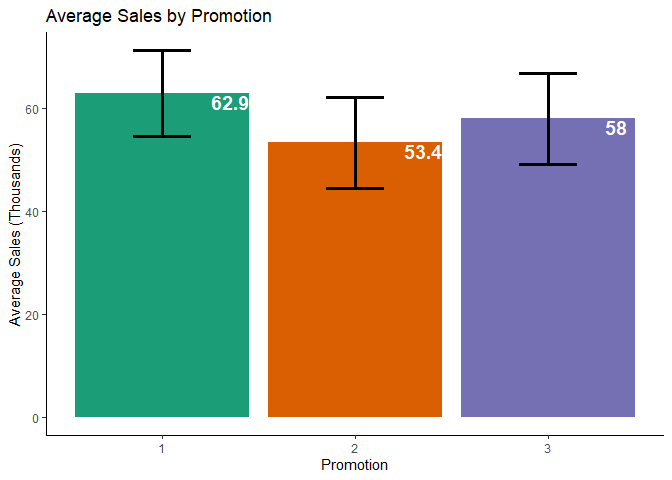
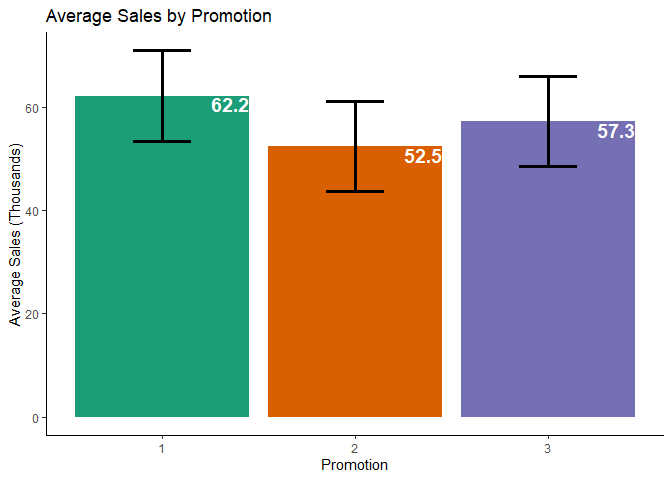
Improvements in readability and conciseness

diff --git a/ab_testing_example.md b/ab_testing_example.md
@@ -25,14 +25,22 @@ the best.
 - **MarketID**: unique identifier for market
 - **MarketSize**: size of market area by sales
 - **LocationID**: unique identifier for store location
-- **AgeOfStore**: age of store in years Promotion: one of three
-  promotions that were tested
+- **AgeOfStore**: age of store in years
+- **Promotion**: one of three promotions that were tested
 - **week**: one of four weeks when the promotions were run
 - **SalesInThousands**: sales amount for a specific LocationID,
   Promotion, and week
 
 Data was sourced from
 [Kaggle](https://www.kaggle.com/datasets/chebotinaa/fast-food-promotion-campaign-ab-test)
+
+### Outcome
+
+Employing a linear mixed-effect model, conditioned on Market ID and
+Market Size, the findings indicate that Promotion \#1 emerges as the
+most effective campaign for advancing. Projections suggest that this
+campaign is poised to yield average sales outcomes ranging from 6% to
+10% superior to the next most favorable alternative.
 
 ------------------------------------------------------------------------
 
@@ -52,15 +60,13 @@ head(d)
     ## 5        1     Medium          2          5         2    1            27.81
     ## 6        1     Medium          2          5         2    2            34.67
 
-Upon inspection, I notice that there are a few columns that need
-redefining in terms of their data type. MarketID, LocationID, and
-Promotion should all be factors rather than integers.
-
 ``` r
+#Redefinee numerics as factors
 d$MarketID = as.factor(d$MarketID)
 d$LocationID = as.factor(d$LocationID)
 d$Promotion = as.factor(d$Promotion)
 
+#Column Summaries
 print(summary(d))
 ```
 
@@ -82,25 +88,7 @@ print(summary(d))
     ## 
 
 ``` r
-print(range(table(d$MarketID)))
-```
-
-    ## [1] 24 88
-
-It appears that there are some imbalances in the data set.
-
-- For MarketID, there are a variety of different counts that range from
-  24-88. The number of observations that we have per market is going to
-  influence the degree of confidence in the conclusions that we can draw
-  within that market.
-- In terms of market sizes, it appears that medium markets are by far
-  the most common. Again, we are going to have less confidence in the
-  conclusions that we draw about large and especially small markets
-  compared to the ones we draw about medium markets.
-- Finally, it appears that promotion 1 was shown slightly less than
-  promotions 2 and 3.
-
-``` r
+#Missing value check
 table(is.na(d))
 ```
 
@@ -108,28 +96,23 @@ table(is.na(d))
     ## FALSE 
     ##  3836
 
-There are no missing values.
+Upon inspection, adjustments were made to redefine the data types of
+MarketID, LocationID, and Promotion as factors.
 
 ------------------------------------------------------------------------
 
 ## Searching for Confounds
 
-Before we go about building a model for our variable of interest
-(Promotion), we need to do some checks to ensure that there are no
-*confounds* that were introduced by the experimental design.
+The following sections explore the variables in the data set to assess
+whether or not they are confounds that will need to be accounted for in
+the final model.
 
 A *confound* is any variable, whether it is in the data set or not, that
-impacts both the treatment and the outcome. This commonly arises from
-poor experimental design, such as imbalances in the characteristics of
-the control and treatment groups.
+impacts the treatment and the outcome. This commonly arises from poor
+experimental design, such as imbalances in the characteristics of the
+control and treatment groups.
 
 ### Distribution of Promotions Across Markets
-
-First we will look at how the different treatments (Promotions) were
-distributed across the markets, and if there is significant variability
-in the outcome (SalesInThousands) that can be attributed to the
-different markets. If both of these criteria are satisfied, then
-*MarketID* is a confound.
 
 ``` r
 #Proportion table for percentage of promotions within each market
@@ -197,11 +180,10 @@ impact on sales (as indicated by the ANOVA).
 
 ### Market Size
 
-Next, we will investigate *MarketSize*. It is worth pointing out here
-that each *MarketID*, which we already established is a confound, only
-has a single market size value associated with it. If we can show that
-market size has a significant impact on sales, that would explain at
-least some of why MarketID has an impact on sales.
+NOTE: Each *MarketID*, which was already determined a confound, only has
+a single market size value associated with it. If market size has a
+significant impact on sales, it would explain some of why MarketID has
+an impact on sales.
 
 ``` r
 d %>%
@@ -225,14 +207,6 @@ summary(aov(SalesInThousands~MarketSize, d))
     ## Residuals   545  77290     142                   
     ## ---
     ## Signif. codes:  0 '***' 0.001 '**' 0.01 '*' 0.05 '.' 0.1 ' ' 1
-
-The data is suggesting that the market size has an appreciable impact on
-sales. The 1-way ANOVA suggests statistical significance, and the
-summary table shows that large markets see, on average, about 60% more
-in sales when compared to medium markets.
-
-Next, we need to see if the promotion campaigns are unequally
-distributed across the different market sizes.
 
 ``` r
 #Proportion table for percentage of market sizes per promotion type
@@ -261,20 +235,13 @@ chisq.test(table(d$Promotion, d$MarketSize))
     ## data:  table(d$Promotion, d$MarketSize)
     ## X-squared = 4.7539, df = 4, p-value = 0.3135
 
-Since the chi-square statistic is not significant, we fail to reject the
-null hypothesis and conclude that the promotions are equally distributed
-across the different market sizes.
-
-Up to now, we have established that *MarketID* impacts both *MarketSize*
-and average sales, and that the *Promotions* are not equally distributed
-across the different markets. Keeping these in mind, we will move onto
-investigating some of the other measured variables.
+The 1-way ANOVA yielded statistical significance, and the summary table
+shows that large markets see, on average, about 60% more in sales
+compared to medium markets. However, it cannot be concluded that the
+promotions are differently distributed across the different market
+sizes. Therefore, *MarketSize* is not a confound.
 
 ### Store Age
-
-Next, in our further exploration of possible confounds, we can check to
-see if the age of the store has an impact on sales. A simple scatter
-plot and correlation metric will suffice here.
 
 ``` r
 library(ggplot2)
@@ -313,34 +280,15 @@ sales.
 
 ### Time
 
-Getting into our first look at the efficacy of the promotion campaigns,
-let’s visualize how the store sales change over the course of the 4
-weeks that were measured. One would assume that a successful promotion
-campaign would show increased sales as time goes on. However, there are
-plenty of market forces outside of our control that could impact these
-numbers at large.
-
 ``` r
+#Visualization of sales over the Promotional Trial.
 ggplot(d, aes(x = week, y = SalesInThousands, group = LocationID, color = MarketSize))+
   geom_line(alpha = 0.4, size = 1)+
   theme_classic()+
-  ggtitle("Sales During promotion Campaigns (First 4 Weeks)")
+  ggtitle("Sales During Promotion Campaigns (First 4 Weeks)")
 ```
 
 ![](ab_testing_example_files/figure-gfm/unnamed-chunk-9-1.png)<!-- -->
-
-There is a lot going on here, and it is tough to parse out any trend
-over time, likely meaning that any effect is going to be relatively
-small and potentially insignificant. I decided to color the lines by
-market size, as they further illustrate that:
-
-- Large markets tend to have much higher sales numbers than small and
-  medium markets.
-- Medium markets far outnumber both small and large markets in this data
-  set.
-
-I will employ a slightly different approach to investigate whether sales
-are increasing over time.
 
 ``` r
 library(reshape2)
@@ -360,103 +308,68 @@ ggplot(dcast, aes(diff))+
     x = median(dcast$diff)-0.5, y = 0.065, 
     label = paste("median = ", median(dcast$diff)), 
     angle = 90, fontface = "bold")+
-  xlab("Difference in Individual Location Earnings (Week 4 - Week 1)")
+  xlab("Difference in Individual Location Sales (Week 4 - Week 1)")
 ```
 
 ![](ab_testing_example_files/figure-gfm/unnamed-chunk-10-1.png)<!-- -->
 
-There doesn’t seem to be much of a noteworthy trend here, either. If
-anything, this distribution is slightly skewed to suggest fewer sales in
-Week 4. As one final test, we can write a regression model to check this
-conclusion.
-
-For this model, I will be predicting sales as a function of week. Some
-of the features of this model include:
-
-- Random intercepts for each LocationID, since the locations represent a
-  small sample of a larger population.
-- Additionally, locations nested within markets, which are also random,
-  so I will specify that in the model as well.
-- Random slopes for each promotion, in case the effect over time varies
-  by promotion.
-
 ``` r
 library(lme4)
-summary(lmer(SalesInThousands~week+(Promotion|MarketID/LocationID), d))
+summary(lmer(SalesInThousands~week+(1|MarketID/LocationID), d))
 ```
 
     ## Linear mixed model fit by REML ['lmerMod']
-    ## Formula: SalesInThousands ~ week + (Promotion | MarketID/LocationID)
+    ## Formula: SalesInThousands ~ week + (1 | MarketID/LocationID)
     ##    Data: d
     ## 
-    ## REML criterion at convergence: 3436.8
+    ## REML criterion at convergence: 3561.4
     ## 
     ## Scaled residuals: 
     ##      Min       1Q   Median       3Q      Max 
-    ## -3.05465 -0.66790 -0.00129  0.68213  2.53265 
+    ## -2.66878 -0.60766  0.02688  0.65667  2.79161 
     ## 
     ## Random effects:
-    ##  Groups              Name        Variance  Std.Dev.  Corr       
-    ##  LocationID:MarketID (Intercept) 0.000e+00  0.000000            
-    ##                      Promotion2  1.132e-05  0.003364  NaN       
-    ##                      Promotion3  1.801e+00  1.341899  NaN  0.99 
-    ##  MarketID            (Intercept) 2.143e+02 14.639405            
-    ##                      Promotion2  8.482e+01  9.209648 -0.30      
-    ##                      Promotion3  2.293e+01  4.788270 -0.28  1.00
-    ##  Residual                        2.597e+01  5.096049            
+    ##  Groups              Name        Variance Std.Dev.
+    ##  LocationID:MarketID (Intercept)  15.97    3.996  
+    ##  MarketID            (Intercept) 198.84   14.101  
+    ##  Residual                         26.52    5.150  
     ## Number of obs: 548, groups:  LocationID:MarketID, 137; MarketID, 10
     ## 
     ## Fixed effects:
     ##             Estimate Std. Error t value
-    ## (Intercept)  52.9161     4.4466  11.900
-    ## week         -0.1645     0.1947  -0.845
+    ## (Intercept)  52.5821     4.5071  11.667
+    ## week         -0.1645     0.1968  -0.836
     ## 
     ## Correlation of Fixed Effects:
     ##      (Intr)
     ## week -0.109
-    ## optimizer (nloptwrap) convergence code: 0 (OK)
-    ## boundary (singular) fit: see help('isSingular')
 
-Looking at the summary statistics of this model, week is given a very
-small negative coefficient with a relatively large standard error. This
-means that week has a small, insignificant impact on sales. We won’t
-need to worry about it much when assessing the impact of the promotion
-campaigns.
+All of the visualizations and analysis techniques attempted above
+suggest no clear trend in sales over the four weeks.
 
 ## Analysis of Promotion Campaign
 
-Before we start constructing a model to analyze the effect of
-*Promotion* on *SalesInThousands*, we need to consider what potential
-confounds we encountered in the exercises above.
-
-To reiterate, we established that *MarketID* impacts both *MarketSize*
-and average sales, and that the *Promotions* are not equally distributed
-across the different markets. Visually, the causal structure looks like
-this:
+It has been established that *MarketID* impacts both *MarketSize* and
+average sales, and that the *Promotions* are not equally distributed
+across the different markets. The casual structure is visualized in the
+directed acyclic graph (DAG) below:
 
 ![](ab_testing_example_files/figure-gfm/unnamed-chunk-12-1.png)<!-- -->
 
-This directed acyclic graph (DAG) summarizes what we learned about the
-factors that we need to consider in constructing a model that isolates
-the effect that promotion has on sales.
+The final model is going to need to be conditioned on the treatment
+(*Promotion*) and the outcome (*SalesInThousands*). However, this
+variable set alone leaves a backdoor path from promotion to sales via
+the route that goes through *MarketID* and *MarketSize*.
 
-Obviously, the model is going to need to be conditioned on the two main
-variables of interest, the treatment (*Promotion*) and the outcome
-(*SalesInThousands*). However, if we just leave it at that, there will
-be a backdoor path from promotion to sales via the route that goes
-through *MarketID* and *MarketSize*.
-
-Additionally, *MarketSize* affects sales independent from *Promotion*.
-Conditioning our model on *MarketSize* will take care of both of these
+Additionally, *MarketSize* affects sales independent of *Promotion*.
+Conditioning the model on *MarketSize* will take care of both of these
 concerns - it will isolate the effect of *Promotion* by removing
 variability in sales due to *MarketSize* while also closing the backdoor
-path between *Promotion* and sales via *MarketID*.
-
-Finally, we will keep *LocationID* nested in *MarketID* as a random
-intercepts, and allow random slopes for each *Promotion*.
+path between *Promotion* and sales via *MarketID*. Finally, nested
+random intercepts will also be included.
 
 ``` r
-m1 = lmer(SalesInThousands~Promotion + MarketSize + (Promotion|MarketID/LocationID), d)
+m1 = lmer(SalesInThousands ~ Promotion + MarketSize + (1|MarketID/LocationID), d)
 ```
 
 ``` r
@@ -488,14 +401,16 @@ ggplot(estimates, aes(x = Promotion, y = emmean, fill = Promotion, label = round
 model_output$contrasts
 ```
 
-    ##  contrast                estimate    SE    df t.ratio p.value
-    ##  Promotion1 - Promotion2     9.53 0.612  24.0  15.580  <.0001
-    ##  Promotion1 - Promotion3     4.85 0.640  27.4   7.581  <.0001
-    ##  Promotion2 - Promotion3    -4.67 0.602 121.7  -7.763  <.0001
+    ##  contrast                estimate    SE  df t.ratio p.value
+    ##  Promotion1 - Promotion2     9.72 0.559 125  17.402  <.0001
+    ##  Promotion1 - Promotion3     4.91 0.568 125   8.643  <.0001
+    ##  Promotion2 - Promotion3    -4.82 0.570 125  -8.447  <.0001
     ## 
     ## Results are averaged over the levels of: MarketSize 
     ## Degrees-of-freedom method: satterthwaite 
     ## P value adjustment: tukey method for comparing a family of 3 estimates
+
+## Discussion
 
 This model suggests that Promotion 1 is the superior campaign, followed
 by Promotion 3 and then Promotion 2. All of the individual pairwise
@@ -507,17 +422,23 @@ pairwise comparisons are not aligned in terms of their conclusions. The
 degree of overlap in the error bars suggests a lack of statistical
 significance, while the pairwise comparisons extracted from the model
 all have very low p-values. In this case, however, these two metrics are
-calculated very differently and have different interpretations.
+calculated differently and have distinct interpretations:
 
 - The error bars communicate the degree of uncertainty we have about the
   sales yielded by each promotional campaign, in reference to the
   average across a population of markets. There were 10 markets in this
-  experiment, and we are assuming that these 10 markets represent a
-  subset of a broader population of markets.
-- When it comes to the pairwise comparisons, it is worth remembering
-  that, for the most part, each market saw each promotional campaign at
-  least one time. Consequently, when it comes to comparing one campaign
-  to another, the model is doing those comparisons *within each market*
+  experiment, and the assumption was made that these 10 markets
+  represent a subset of a broader population of markets. Due to the
+  inherent variability in sales that can be attributed to the markets,
+  these estimates have a relatively high uncertainty associated with
+  them.
+- Considering the pairwise comparisons, it is worth remembering that,
+  for the most part, each market saw each promotional campaign at least
+  one time. Consequently, when it comes to comparing one campaign to
+  another, the model is doing those comparisons *within each market*
   first. From there, the model is using that distribution within-market
   comparisons to assess the significance of the difference between two
-  promotional campaigns.
+  promotional campaigns. This gives the pairwise comparisons more
+  statistical power because the model is able to control for the
+  inter-market variability that is not controlled for in the estimated
+  means.
